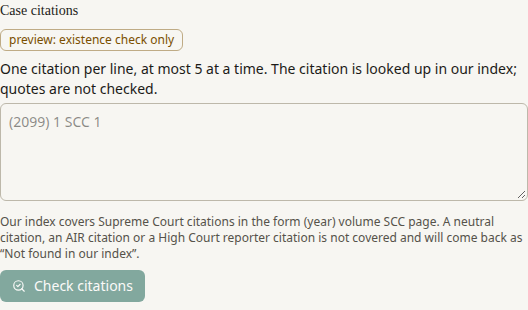
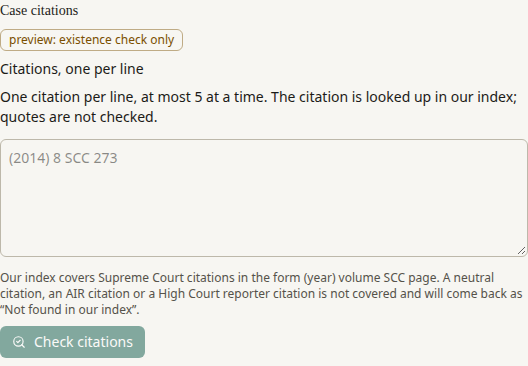
Guide frame 05 retaken to match the page (label Citations, one per line; placeholder (2014) 8 SCC 273); alt per R1

Changed region(s): [[0.0, 0.6387, 1.0, 0.9871], [0.0, 0.0, 1.0, 0.3484], [0.0, 0.3774, 1.0, 0.4645]]

diff --git a/frontend/src/lib/guide/guide.spec.ts b/frontend/src/lib/guide/guide.spec.ts
@@ -65,7 +65,7 @@ test("the guide states each limit it was asked to: not legal advice, the citatio
   // R1 (15 Oct): frame 06 as retaken by Track A at main f8738cf7 (528x64, sha256 0a019ee3...c9d2) and its exact alt
   assert.equal(statSync(join(root, "public", "guide", "06-memo-export.png")).size, 8643);
   assert.equal(GUIDE_IMAGES.memo.alt, "The memo export controls on the Matter workspace page once a result is shown: the label \u201cDownload the memo\u201d with the buttons Markdown (.md) and Word (.docx), then, set apart, the button Print / save as PDF; on the next line, the button Download run record (.json).");
-  assert.equal(statSync(join(root, "public", "guide", "05-citations-panel.png")).size, 25856, "the frame retaken from the citations-ON build at 836925cd (Track A, 15 Oct, sha256 43a8dad67c77…)");
+  assert.equal(statSync(join(root, "public", "guide", "05-citations-panel.png")).size, 28522, "the frame retaken from the citations-ON build at the D9 batch (Web, 15 Oct, sha256 d2ee473d9e12…)");
   assert.doesNotMatch(JSON.stringify([GUIDE_STEPS, GUIDE_LIMITS]), /dev stack only/i);
   assert.doesNotMatch(text, /frontier/i, "the frontier reader was removed in #129; the guide no longer describes it");
   assert.doesNotMatch(copySource, /much faster/, "no signed source for 'much'");
@@ -88,7 +88,7 @@ test("the warm-up note on Screening and Matters is figure-free and the same sent
 test("R1 conditions on the images: the citations shot (arm ON, retaken frame only) has the preview caption and alt; the checklist alt names the marks, never a count", () => {
   assert.equal(GUIDE_IMAGES.citations.caption, "Preview: existence check only."); // shown only with the retaken frame 05 (arm ON)
   assert.equal(GUIDE_IMAGES.citedFact.caption, "This row has no cited fact: the screening found no fact in your papers that supports this ingredient, so it asks you to look for one. When an ingredient is supported, its row names the fact it cites and shows that fact from your text.");
-  assert.equal(GUIDE_IMAGES.citations.alt, "The Case citations panel: a preview label, a line saying that each line takes one citation, at most 5 at a time, and that quotes are not checked, an empty box with an example citation as its placeholder, a note that the index covers Supreme Court citations in the form (year) volume SCC page and that other citation forms come back as not found, and a Check citations button.");
+  assert.equal(GUIDE_IMAGES.citations.alt, "The Case citations panel: a preview label, a label saying Citations, one per line, a line saying that each line takes one citation, at most 5 at a time, and that quotes are not checked, an empty box with an example citation as its placeholder, a note that the index covers Supreme Court citations in the form (year) volume SCC page and that other citation forms come back as not found, and a Check citations button.");
   assert.match(GUIDE_IMAGES.checklist.alt, /run on a public court order .*2025:KHC:12773.*three ingredient rows under the heading To look for in your papers, each marked No fact cited/);
   assert.doesNotMatch(GUIDE_IMAGES.checklist.alt, /\b\d+ of \d+\b/);
 });

diff --git a/frontend/src/lib/guide/copy.ts b/frontend/src/lib/guide/copy.ts
@@ -32,7 +32,7 @@ export const GUIDE_CITATIONS_CAPTION = "Preview: existence check only.";
 
 // Frame 05 for the panel-on build must be retaken on a build with both citation flags on; until that file exists, the ON build shows step 6 with NO image and NO caption (never the old
 // hosted-build frame). Studio/Track A flip this when the new 05-citations-panel.png is committed.
-const FRAME_05_RETAKEN = true; // retaken by Track A at #209 72a74cb1 on a build with both citation flags on (528x246, 14,178 bytes, invented matter only; placeholder (2099) 1 SCC 1)
+const FRAME_05_RETAKEN = true; // retaken by Web on a citations-ON build at the D9 batch (#281: label "Citations, one per line"; #280: placeholder (2014) 8 SCC 273); 528x366, 28,522 bytes, invented matter only
 
 /** The six screenshots, in the order the guide uses them. Files live in frontend/public/guide/. */
 export const GUIDE_IMAGES: Record<"input" | "checklist" | "citedFact" | "needsReview" | "citations" | "memo", GuideImage> = {
@@ -55,7 +55,7 @@ export const GUIDE_IMAGES: Record<"input" | "checklist" | "citedFact" | "needsRe
   },
   citations: {
     file: "05-citations-panel.png",
-    alt: "The Case citations panel: a preview label, a line saying that each line takes one citation, at most 5 at a time, and that quotes are not checked, an empty box with an example citation as its placeholder, a note that the index covers Supreme Court citations in the form (year) volume SCC page and that other citation forms come back as not found, and a Check citations button.",
+    alt: "The Case citations panel: a preview label, a label saying Citations, one per line, a line saying that each line takes one citation, at most 5 at a time, and that quotes are not checked, an empty box with an example citation as its placeholder, a note that the index covers Supreme Court citations in the form (year) volume SCC page and that other citation forms come back as not found, and a Check citations button.",
     caption: GUIDE_CITATIONS_CAPTION,
   },
   memo: {
